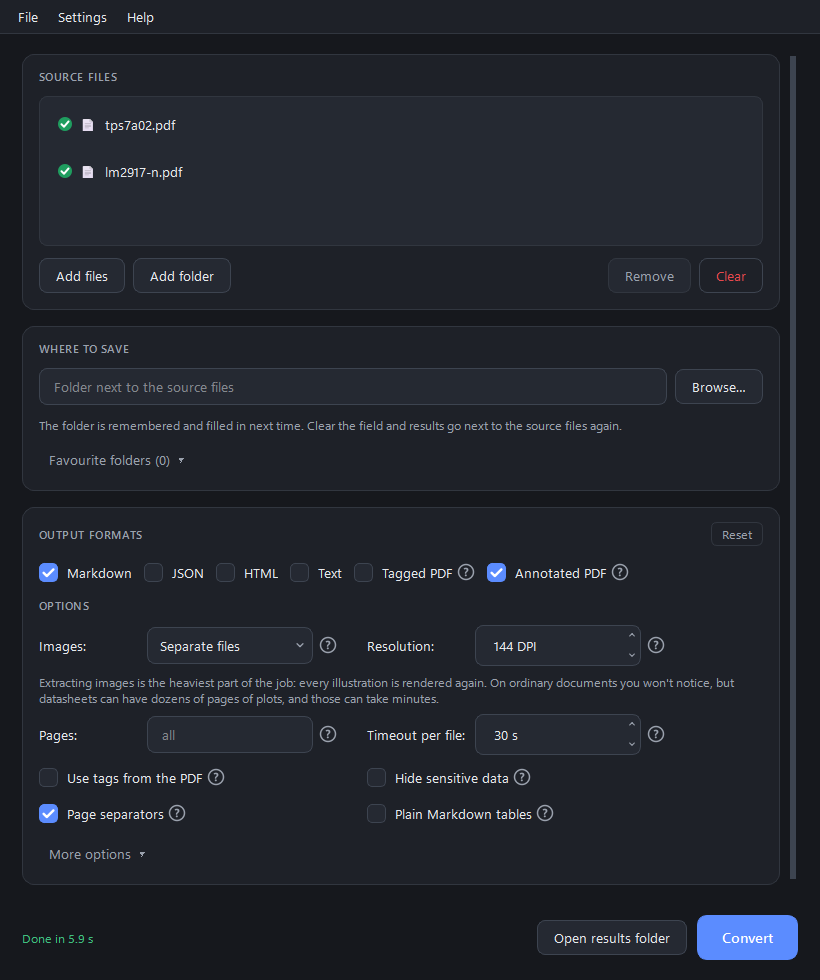
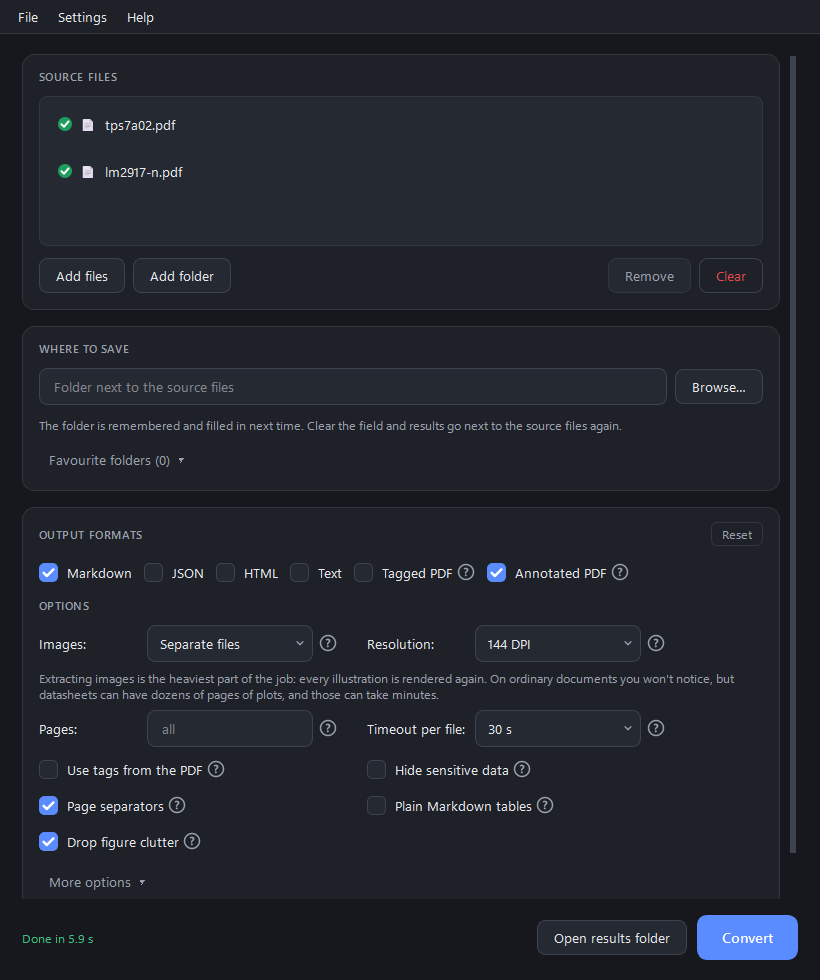
Version 2.0.0: translations complete, changelog, English-only README
- Polish, French, Spanish and Italian get the 20 strings added since the
  last translation pass; a few labels shortened so every box and label fits
  at the minimum width in all six languages ("per gruppi", "Límite por
  archivo:", "Adresse serveur :" ...).
- CHANGELOG.md describes 2.0.0 against 1.0.0.
- The Russian README and Russian screenshots are gone: the description on
  GitHub is English only. The in-app guide (F1) stays in both languages.
- Screenshots redone for the current window.

Changed region(s): [[0.0305, 0.6429, 0.8841, 0.9184], [0.9451, 0.8571, 0.9756, 0.9184], [0.7622, 0.7347, 0.8232, 0.7653]]

diff --git a/version.py b/version.py
@@ -5,4 +5,4 @@ tag that does not match this - so the installer and the program can never
 claim different versions.
 """
 
-__version__ = "1.1.0"
+__version__ = "2.0.0"

diff --git a/CHANGELOG.md b/CHANGELOG.md
@@ -1,0 +1,54 @@
+# Changes
+
+## 2.0.0
+
+A ground-up rework since 1.0.0: results you can hand to a person or a
+language model, and a program that behaves like a Windows application.
+
+### Better results
+
+- **Figure clutter removed.** Plots, package drawings and flow charts used to
+  come out as huge tables of empty cells — up to three quarters of a
+  datasheet. Each is now one line, "[Figure omitted, page N]" with its
+  caption; real sentences inside (flow chart steps) are kept. Over 23 test
+  datasheets from 13 makers: 17% fewer tokens, up to 78% on single files.
+- **Unreadable fonts fixed.** Fonts that number their glyphs instead of
+  naming them came out as "?": a whole Infineon datasheet, minus signs in TI
+  plot labels, µ in onsemi tables. The program now restores them before
+  converting (the original PDF is never changed). Question marks over the
+  test set: 8970 → 90.
+- **MIN / TYP / MAX put back apart.** TI and ADI tables with no lines between
+  those columns came out with all three values in one cell. They are now
+  split by where each number sits on the page; cells that cannot be read
+  reliably are left whole.
+- **Images tidied.** Identical image files are merged, decorations repeated on
+  every page are left out, and files nothing links to are deleted.
+- **Drop hidden text** (More options): for results that go to an AI —
+  invisible, white-on-white, microscopic and off-page text is left out.
+- **Page separators** and **plain Markdown tables** can be switched.
+- Plot-heavy datasheets convert in seconds instead of running out of memory
+  (veraPDF memory fix, reported upstream).
+- Every file has a timeout; a file that runs over is retried without images;
+  **Cancel** really stops; one broken PDF never stops the batch.
+
+### A proper Windows program
+
+- **File / Settings / Help** menu with the usual shortcuts; About dialog.
+- **Six languages**: English, Русский, Polski, Français, Español, Italiano.
+- Light and dark theme or as in Windows — title bars included.
+- **Open in PDF → Markdown** in the Explorer context menu; one window — files
+  sent while it is open join it.
+- Icon; the window reopens where it was left; a mark next to each file after a
+  run, double-click opens the result.
+- A **?** next to every setting explains it; **Reset** puts a section back to
+  its defaults.
+- Remove single files from the list (Delete, button or right-click).
+- Up to five **favourite output folders**.
+- Resolution and timeout chosen from the usual values; eye button for the PDF
+  password.
+- **User guide** built in (F1), works offline.
+- Tells you when a new version is out (can be turned off).
+- Bundled Java 25; installer for Windows 10/11, no admin rights needed.
+
+Licence: GNU GPL v3.
+

diff --git a/README.md b/README.md
@@ -1,7 +1,5 @@
 # <img src="docs/icon.png" width="40" alt="" align="top"> PDF → Markdown
 
-[Русская версия](README.ru.md)
-
 A Windows desktop app that turns PDFs — technical documents and datasheets
 especially — into Markdown, JSON, HTML or plain text. Drag files in, press one
 button. No terminal, no Python, no Java to install.
